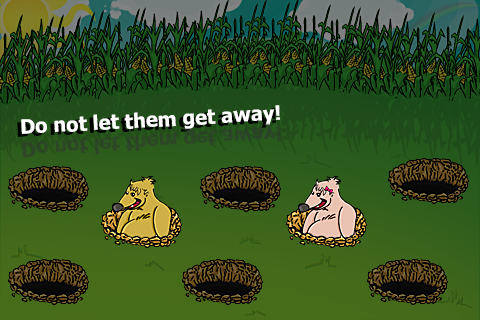
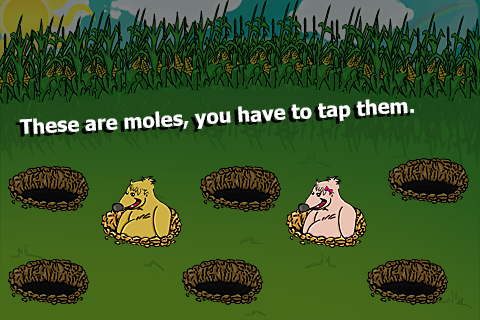
Adicionadas as telas de tutorial

Changed region(s): [[0.0312, 0.3125, 0.875, 0.4375]]

diff --git a/game/scenes.py b/game/scenes.py
@@ -6,7 +6,7 @@ from random import randint
 
 from game.utils import Background, Sign, Hole, Player, HighScore, HammerBlow
 from game.moles import Mole, FemaleMole, CapMole, SpeedMole
-from game.buttons import StartButton, CreditsButton, BackButton
+from game.buttons import StartButton, CreditsButton, BackButton, PlayButton, NextButton
 from settings import fonts_dir, sounds_dir, project_dir
 
 try:
@@ -95,16 +95,17 @@ class Scene:
         pass
 
     def set_music(self):
-        if self.music[0] and self.context['music'] == 'play':
+        if self.music and self.context['music'] == 'play':
             path = os.path.join(sounds_dir, self.music[0])
             mixer.music.load(path)
 
     def handle_music(self):
-        if self.context['music'] == 'play':
-            mixer.music.stop()
-            mixer.music.play(self.music[1])
-        elif self.context['music'] == 'off':
-            mixer.music.stop()
+        if self.music:
+            if self.context['music'] == 'play':
+                mixer.music.stop()
+                mixer.music.play(self.music[1])
+            elif self.context['music'] == 'off':
+                mixer.music.stop()
 
     def end(self):
         pass
@@ -209,7 +210,7 @@ class TitleScene(Scene):
                 if button.check_click(position):
                     self.run = False
                     if button.name == 'start':
-                        self.next_scene = SurvivalScene(self.context)
+                        self.next_scene = TutorialScene1(self.context)
                         self.context['music'] = 'play'
                     if button.name == 'credits':
                         self.next_scene = CreditsScene(self.context)
@@ -224,6 +225,77 @@ class TitleScene(Scene):
 
     def redraw(self):
         self.high_score.draw(self.context['screen'])
+
+
+class TutorialScene1(Scene):
+
+    def __init__(self, context):
+        Scene.__init__(self, context)
+        self.background = Background('mole_hole_tuto_1.png')
+
+    def mousebuttondown_event(self):
+        position = pygame.mouse.get_pos()
+        if position != (0, 0):
+            for button in self.actors_dict['buttons']:
+                if button.check_click(position):
+                    self.run = False
+                    if button.name == 'play':
+                        self.next_scene = SurvivalScene(self.context)
+                        self.context['music'] = 'play'
+                    if button.name == 'next':
+                        self.next_scene = TutorialScene2(self.context)
+
+    def start(self):
+        play = PlayButton()
+        next = NextButton()
+        self.actors_dict['buttons'].add(play)
+        self.actors_dict['buttons'].add(next)
+
+
+class TutorialScene2(Scene):
+
+    def __init__(self, context):
+        Scene.__init__(self, context)
+        self.background = Background('mole_hole_tuto_2.png')
+
+    def mousebuttondown_event(self):
+        position = pygame.mouse.get_pos()
+        if position != (0, 0):
+            for button in self.actors_dict['buttons']:
+                if button.check_click(position):
+                    self.run = False
+                    if button.name == 'play':
+                        self.next_scene = SurvivalScene(self.context)
+                        self.context['music'] = 'play'
+                    if button.name == 'next':
+                        self.next_scene = TutorialScene3(self.context)
+
+    def start(self):
+        play = PlayButton()
+        next = NextButton()
+        self.actors_dict['buttons'].add(play)
+        self.actors_dict['buttons'].add(next)
+
+
+class TutorialScene3(Scene):
+
+    def __init__(self, context):
+        Scene.__init__(self, context)
+        self.background = Background('mole_hole_tuto_3.png')
+
+    def mousebuttondown_event(self):
+        position = pygame.mouse.get_pos()
+        if position != (0, 0):
+            for button in self.actors_dict['buttons']:
+                if button.check_click(position):
+                    self.run = False
+                    if button.name == 'play':
+                        self.next_scene = SurvivalScene(self.context)
+                        self.context['music'] = 'play'
+
+    def start(self):
+        play = PlayButton(image='btn_tuto_start_final.png')
+        self.actors_dict['buttons'].add(play)
 
 
 class CreditsScene(Scene):

diff --git a/game/buttons.py b/game/buttons.py
@@ -32,3 +32,15 @@ class BackButton(Button):
 
     def __init__(self, position=(385, 260), name='back', image='btn_back.png'):
         Button.__init__(self, position, image, name)
+
+
+class PlayButton(Button):
+
+    def __init__(self, position=(0, 222), name='play', image='btn_tuto_start.png'):
+        Button.__init__(self, position, image, name)
+
+
+class NextButton(Button):
+
+    def __init__(self, position=(385, 260), name='next', image='btn_tuto_next.png'):
+        Button.__init__(self, position, image, name)
